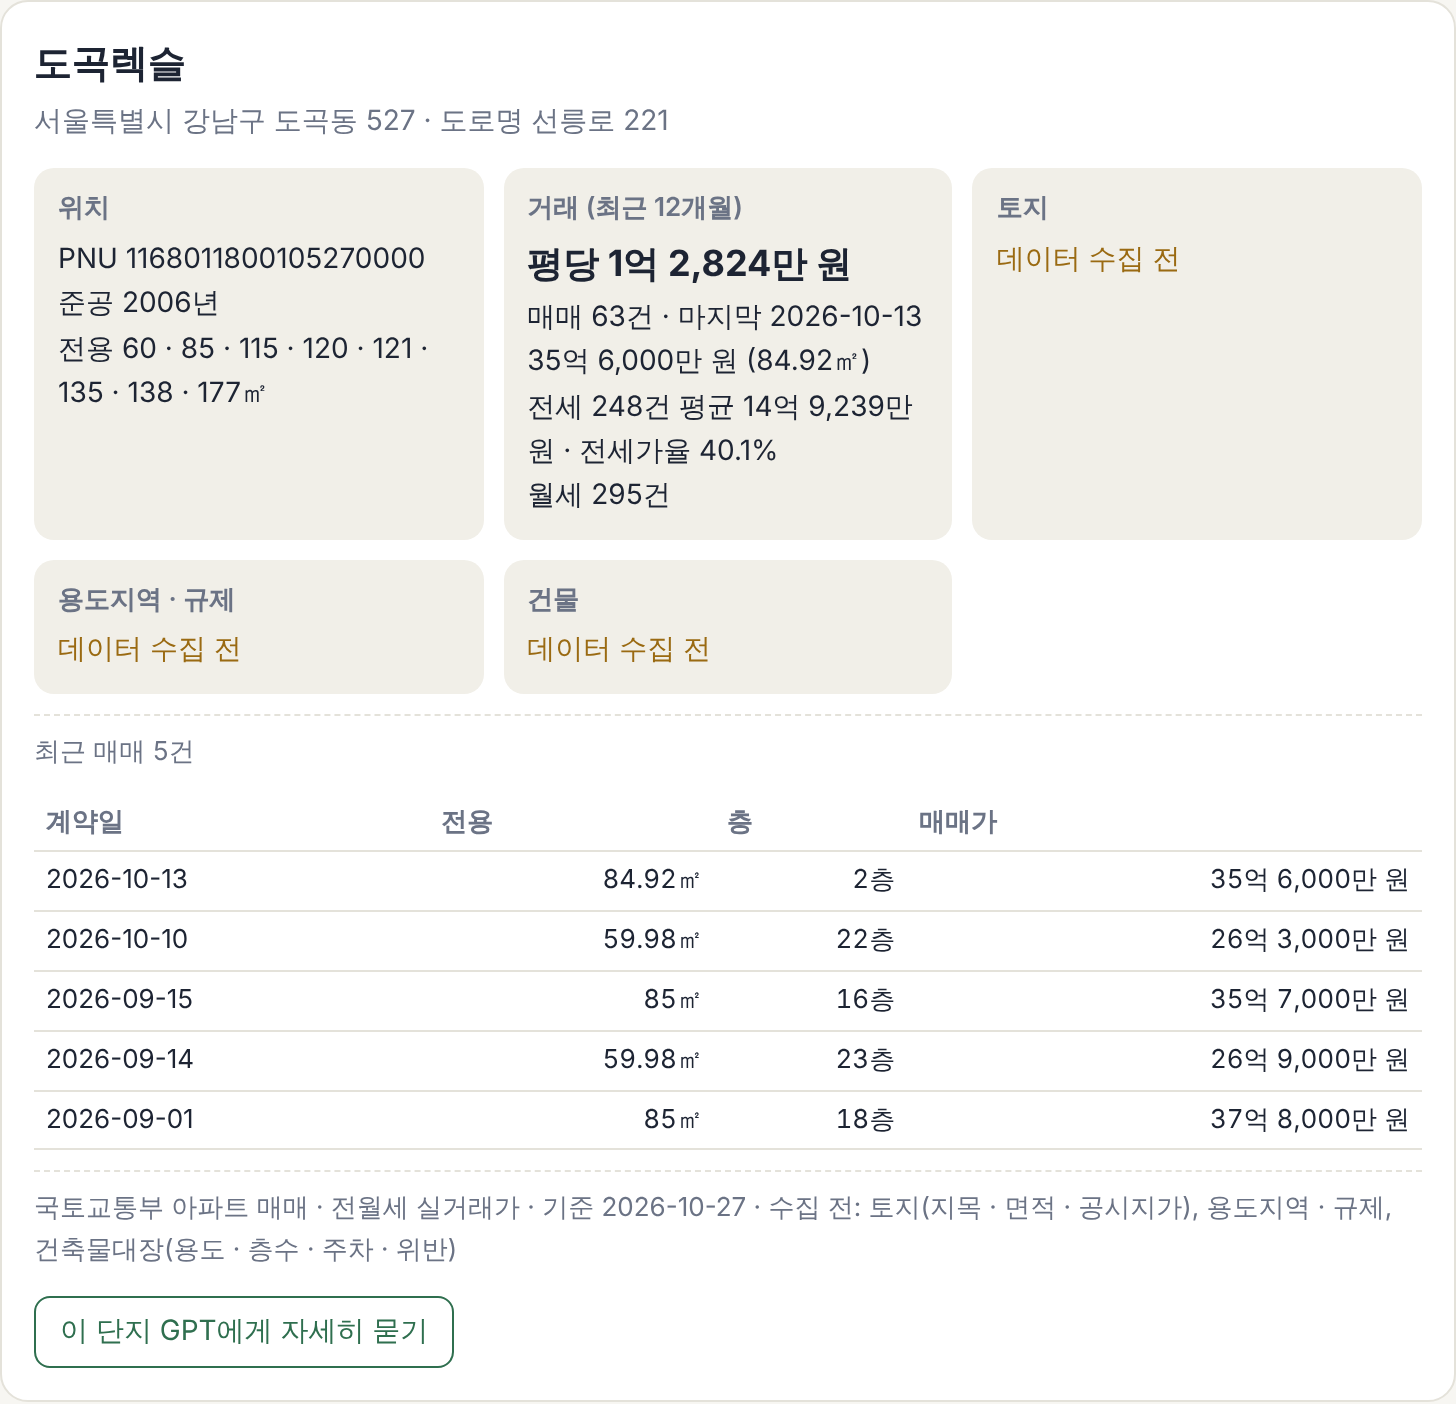
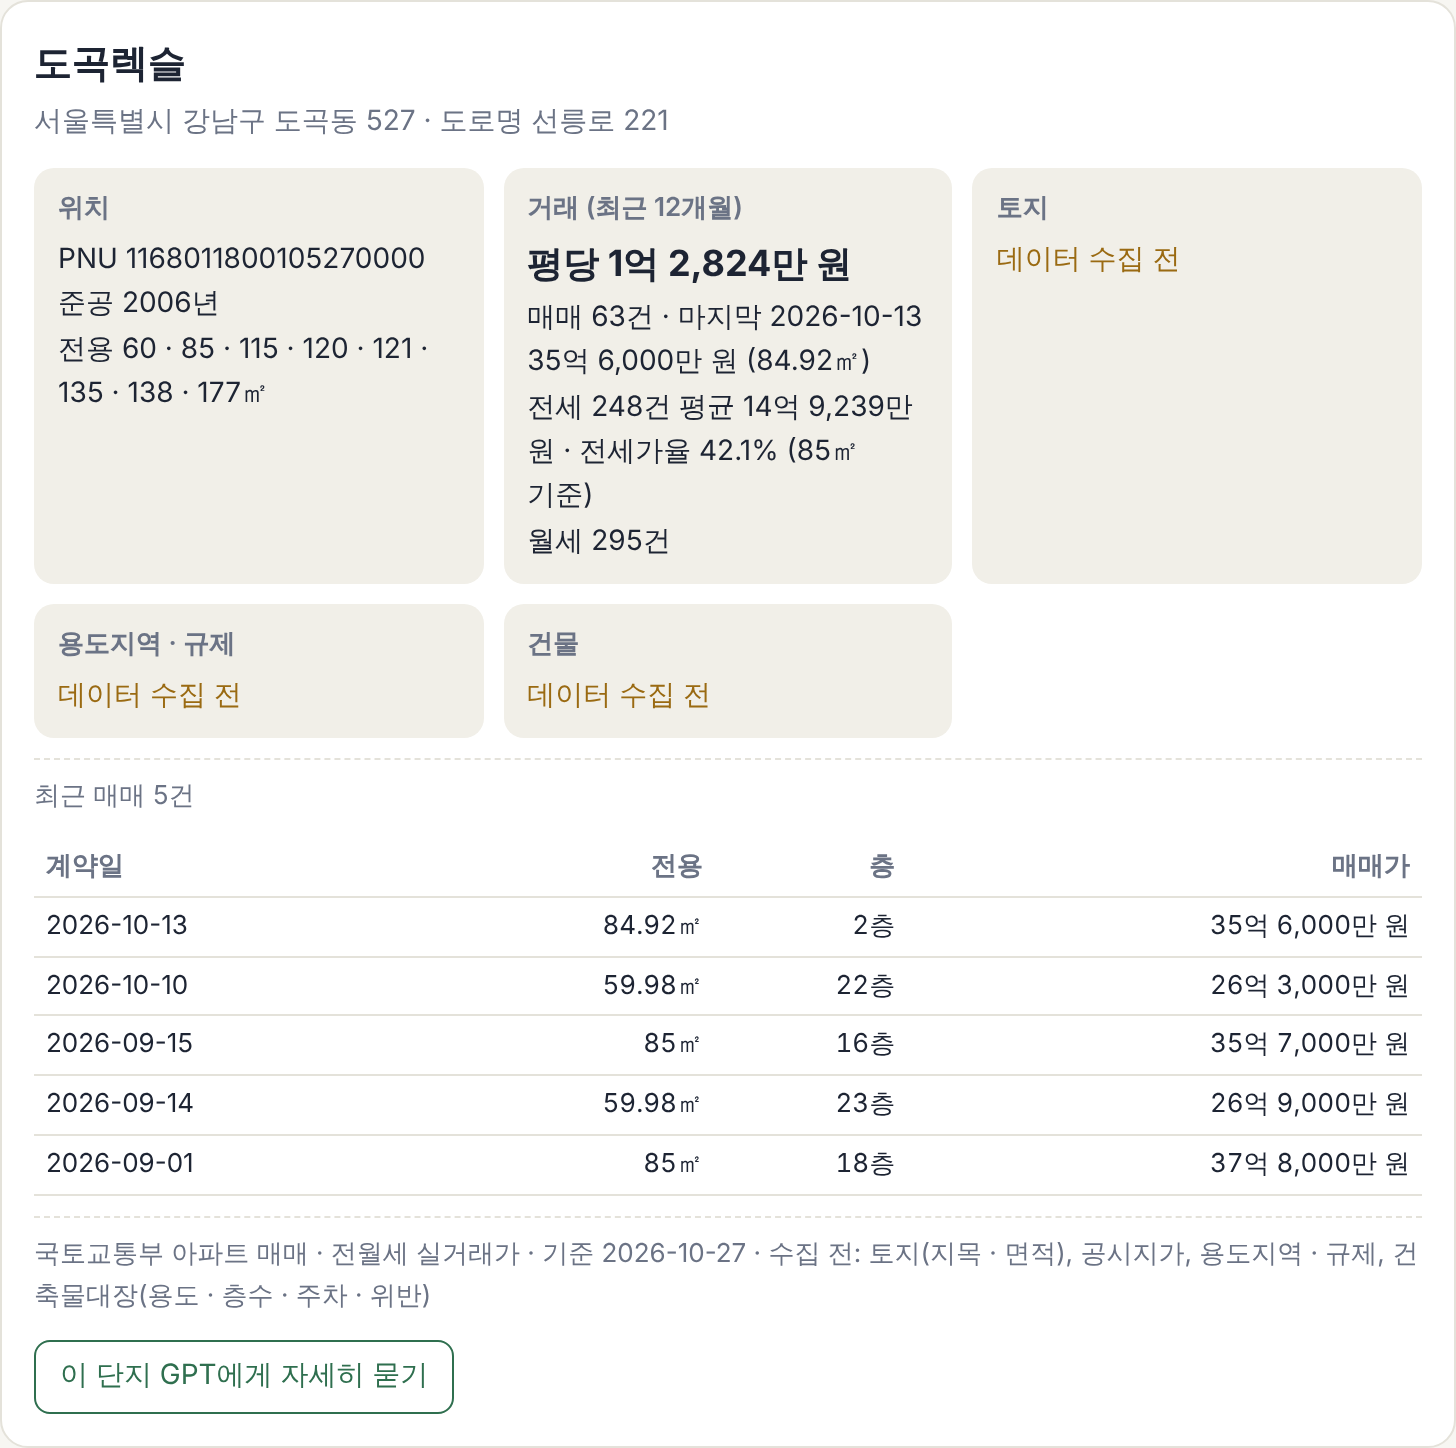
리뷰 반영: 단지 카드
- 전세가율은 같은 전용면적 타입끼리 비교(매매가 가장 많은 타입, jeonse_ratio_area)
- 토지 · 용도지역 · 건물은 단지 건물이 선 필지까지 모두 모음, 「접함」 용도지역 제외, 개별공시지가 우선
- 최근 매매 5건을 카드 함수 안에서 같이 읽어 같은 스냅숏 · 같은 단지만 보이게 함
- missing을 칸별(토지 · 공시지가 · 용도지역 · 건물)로, 기준일에 토지 · 건물 기준일도 반영
- 지번 공백 무시, 카드 오류 뒤 버튼 다시 켜기, DB 접속 5초 제한

Claude-Session: https://claude.ai/code/session_0128nbhyaPcHTYW7NnvzLmPe

diff --git a/hanpilji/gpt/web.py b/hanpilji/gpt/web.py
@@ -46,7 +46,7 @@ h1{font-size:22px;margin:0 0 4px}h2{font-size:17px;margin:28px 0 10px}.sub{color
 .pc{background:var(--card);border:1px solid var(--line);border-radius:14px;padding:16px;margin:12px 0}
 .pc h3{margin:0;font-size:19px}.pc .addr{color:var(--muted);font-size:14px;margin:2px 0 12px}
 .grid{display:grid;grid-template-columns:repeat(auto-fit,minmax(210px,1fr));gap:10px}
-.sec{background:var(--soft);border-radius:10px;padding:10px 12px;font-size:14px}
+.sec{background:var(--soft);border-radius:10px;padding:10px 12px;font-size:14px;word-break:keep-all;overflow-wrap:anywhere}
 .sec b{display:block;font-size:13px;color:var(--muted);font-weight:600;margin-bottom:4px}
 .sec .big{font-size:18px;font-weight:700}.todo{color:var(--warn)}
 table{width:100%;border-collapse:collapse;font-size:13px;margin-top:10px}td,th{padding:4px 6px;border-bottom:1px solid var(--line);text-align:left}
@@ -86,10 +86,10 @@ function card(r,deals){const c=el("div","pc");c.append(el("h3",null,r.complex_na
  g.append(sec("위치",[["PNU "+(r.pnu||"없음")],["준공 "+(r.build_year||"-")+"년"],["전용 "+(r.area_types||[]).join(" · ")+"㎡"]]));
  g.append(sec("거래 (최근 12개월)",[[r.trade_count?"평당 "+won(r.trade_per_pyeong):"매매 없음","big"],
   ["매매 "+r.trade_count+"건 · 마지막 "+(r.trade_last_date?r.trade_last_date+" "+won(r.trade_last_amount)+" ("+r.trade_last_area+"㎡)":"-")],
-  ["전세 "+r.jeonse_count+"건 평균 "+won(r.jeonse_avg)+(r.jeonse_ratio!=null?" · 전세가율 "+r.jeonse_ratio+"%":"")],["월세 "+r.wolse_count+"건"]]));
- g.append(sec("토지",[["지목 "+(r.land_category||"-")+" · 면적 "+(r.land_area_m2||"-")+"㎡"],["공시지가 "+(r.land_price_per_m2?won(r.land_price_per_m2)+"/㎡ ("+r.land_price_year+")":"-")]],!has("토지")));
+  ["전세 "+r.jeonse_count+"건 평균 "+won(r.jeonse_avg)+(r.jeonse_ratio!=null?" · 전세가율 "+r.jeonse_ratio+"% ("+r.jeonse_ratio_area+"㎡ 기준)":"")],["월세 "+r.wolse_count+"건"]]));
+ g.append(sec("토지",[["필지 "+(r.land_parcel_count||0)+"개 · 지목 "+(r.land_category||"-")+" · 면적 "+(r.land_area_m2||"-")+"㎡"],["공시지가 "+(r.land_price_per_m2?won(r.land_price_per_m2)+"/㎡ ("+r.land_price_year+")":"-")]],!has("토지")));
  g.append(sec("용도지역 · 규제",[[r.zones||"-"],["행위제한 규칙 "+(r.zone_rule_count||0)+"개"]],!has("용도지역")));
- g.append(sec("건물",[[(r.bld_main_use||"-")+" · 지상 "+(r.bld_floors_above||"-")+"층"],["사용승인 "+(r.bld_approval_date||"-")+" · 주차 "+(r.bld_parking??"-")+"대"],
+ g.append(sec("건물",[["건물 "+(r.bld_count||0)+"동 · "+(r.bld_main_use||"-")+" · 최고 "+(r.bld_floors_above||"-")+"층"],["사용승인 "+(r.bld_approval_date||"-")+" · 주차 "+(r.bld_parking??"-")+"대"],
   ["승강기 "+(r.bld_elevator==null?"-":r.bld_elevator?"있음":"없음")+" · 위반 "+(r.bld_violation==null?"-":r.bld_violation?"있음":"없음")]],!has("건축물대장")));
  c.append(g);
  if(deals&&deals.length){const t=el("table");const h=el("tr");["계약일","전용","층","매매가"].forEach((x,i)=>h.append(el("th",i?"n":null,x)));t.append(h);
@@ -99,10 +99,10 @@ function card(r,deals){const c=el("div","pc");c.append(el("h3",null,r.complex_na
  const a=el("button","ask","이 단지 GPT에게 자세히 묻기");a.type="button";a.onclick=()=>{q.value=r.complex_name+" 종합해서 알려줘";send()};c.append(a);return c}
 async function look(){const t=$("cq").value.trim();if(!t)return;const box=$("cards");box.textContent="찾는 중…";$("cb").disabled=true;
  try{const r=await fetch("/api/card?q="+encodeURIComponent(t),{headers:{"X-Token":token}});const j=await r.json();box.textContent="";
-  if(!r.ok){box.append(el("div","msg",j.error));return}
+  if(!r.ok){box.append(el("div","msg",j.error))}else{
   if(!j.rows.length){box.append(el("div","msg","「"+t+"」에 맞는 단지가 없습니다. 지금 데이터는 서울 강남구 아파트만 있습니다."))}
-  for(const row of j.rows){row.sources=j.sources.join(" · ");row.asof=j.asof;box.append(card(row,j.deals[row.complex_name]))}
-  if(j.row_total>j.rows.length)box.append(el("div","src","전체 "+j.row_total+"곳 중 "+j.rows.length+"곳. 이름을 더 자세히 써 주세요."))}
+  for(const row of j.rows){row.sources=j.sources.join(" · ");row.asof=j.asof;box.append(card(row,row.recent_deals))}
+  if(j.row_total>j.rows.length)box.append(el("div","src","전체 "+j.row_total+"곳 중 "+j.rows.length+"곳. 이름을 더 자세히 써 주세요."))}}
  catch(e){box.textContent="연결 오류: "+e}$("cb").disabled=false}
 $("cb").onclick=look;$("cq").onkeydown=e=>{if(e.key==="Enter")look()};
 async function send(){const t=q.value.trim();if(!t)return;q.value="";add(t,"me");b.disabled=true;const w=add("찾는 중…");
@@ -157,16 +157,12 @@ def make_handler(cfg, model, rounds, token=None, per_hour=PER_HOUR):
                 self._json(404, {"error": "없는 주소"})
 
         def _card(self, query):
-            """단지 카드(LLM 없이 마트 함수만 부름, 요금 없음) + 단지마다 최근 매매 몇 건."""
+            """단지 카드(LLM 없이 마트 함수 하나만 부름, 요금 없음). 최근 매매 5건도 같은 결과에 들어 있음."""
             if not query:
                 return self._json(400, {"error": "단지명이나 주소를 넣어 주세요"})
             try:
                 with engine.connect(cfg) as conn:
                     out = tools.run(conn, "q_property_card", {"query": query})
-                    out["deals"] = {}
-                    for r in out["rows"]:   # 이름 일부 검색이라 다른 단지가 섞일 수 있어 같은 이름만 남김
-                        rows = tools.run(conn, "q_deal_list", {"name": r["complex_name"]})["rows"]
-                        out["deals"][r["complex_name"]] = [d for d in rows if d["complex_name"] == r["complex_name"]][:5]
             except Exception as e:
                 print(f"오류: {e!r}", file=sys.stderr)
                 return self._json(500, {"error": "카드를 만드는 중 오류가 났습니다."})

diff --git a/tests/test_gpt.py b/tests/test_gpt.py
@@ -267,10 +267,36 @@ class WithDb(unittest.TestCase):
             self.assertTrue(row["pnu"].startswith("11680111001"), "세곡동 법정동 코드 + 일반 지번")
             self.assertGreater(row["trade_count"], 0)
             self.assertIn("건축물대장(용도 · 층수 · 주차 · 위반)", row["missing"])
+            self.assertLessEqual(len(row["recent_deals"]), 5)
+            self.assertTrue(row["recent_deals"], "최근 매매가 카드에 같이 들어 있음")
             json.dumps(card, ensure_ascii=False)   # 배열(전용면적 타입)도 JSON으로 바뀜
             by_addr = tools.run(conn, "q_property_card", {"query": row["address"].split(" ", 2)[2] + "번지"})
             self.assertEqual(by_addr["rows"][0]["complex_name"], row["complex_name"], "동 지번으로도 찾음")
             self.assertEqual(tools.run(conn, "q_property_card", {"query": "없는단지"})["row_total"], 0)
+
+    def test_property_card_joins_all_parcels(self):
+        """단지 건물이 선 필지까지 모으고, 「접함」 용도지역은 빼고, 개별공시지가를 먼저 씀(넣은 값은 되돌림)."""
+        with psycopg.connect(DSN) as conn:
+            cid, pnu = conn.execute("SELECT complex_id, pnu FROM core.dim_complex WHERE pnu IS NOT NULL LIMIT 1").fetchone()
+            other = pnu[:11] + "9999" + pnu[15:]
+            conn.execute("INSERT INTO core.dim_parcel (pnu, land_category, area_m2, source, asof) VALUES "
+                         "(%s, '대', 1000, 't', '2026-10-01'), (%s, '대', 500, 't', '2026-10-01')", (pnu, other))
+            conn.execute("INSERT INTO core.fact_land_price (pnu, base_year, is_standard, price_per_m2, source, asof) "
+                         "VALUES (%s, 2026, false, 300, 't', '2026-10-01'), (%s, 2026, true, 290, 't', '2026-10-01')",
+                         (pnu, pnu))
+            conn.execute("INSERT INTO core.bridge_parcel_zone (pnu, zone_cd, overlap, source, asof) VALUES "
+                         "(%s, 'UQA123', '포함', 't', '2026-10-01'), (%s, 'UQA130', '접함', 't', '2026-10-01')",
+                         (pnu, other))
+            conn.execute("INSERT INTO core.dim_building (bld_pk, pnu, main_use, floors_above, total_area, source, asof) "
+                         "VALUES ('t1', %s, '공동주택', 35, 2, 't', '2026-10-01'), "
+                         "('t2', %s, '공동주택', 30, 1, 't', '2026-10-01')", (pnu, other))
+            conn.execute("INSERT INTO core.bridge_complex_building (complex_id, bld_pk, source, asof) "
+                         "VALUES (%s, 't2', 't', '2026-10-01')", (cid,))
+            row = conn.execute("SELECT land_parcel_count, land_area_m2, land_price_per_m2, zones, bld_count, missing "
+                               "FROM mart.q_property_card('11680', (SELECT name FROM core.dim_complex "
+                               "WHERE complex_id = %s))", (cid,)).fetchone()
+            conn.rollback()
+        self.assertEqual(row, (2, 1500, 300, "제3종일반주거지역", 2, []))
 
     def test_make_pnu(self):
         with engine.connect(self.cfg) as conn:
@@ -337,14 +363,14 @@ class Web(unittest.TestCase):
     def test_card(self):
         self.serve()
         import urllib.request
-        card = {"tool": "q_property_card", "rows": [{"complex_name": "도곡렉슬"}], "sources": [], "asof": None,
-                "shown": 1, "row_total": 1}
-        deals = {"rows": [{"complex_name": "도곡렉슬", "amount": 1}, {"complex_name": "도곡렉슬2", "amount": 2}]}
-        with mock.patch.object(tools, "run", side_effect=[card, deals]) as run:
+        card = {"tool": "q_property_card", "rows": [{"complex_name": "도곡렉슬", "recent_deals": []}], "sources": [],
+                "asof": None, "shown": 1, "row_total": 1}
+        with mock.patch.object(tools, "run", return_value=card) as run:
             with urllib.request.urlopen(self.base + "/api/card?q=%EB%8F%84%EA%B3%A1") as r:
                 got = json.loads(r.read())
-        self.assertEqual(run.call_args_list[0].args[1:], ("q_property_card", {"query": "도곡"}))
-        self.assertEqual(got["deals"], {"도곡렉슬": [{"complex_name": "도곡렉슬", "amount": 1}]}, "다른 단지 거래는 뺌")
+        run.assert_called_once()   # 카드와 최근 거래를 한 함수(한 스냅숏)에서 읽음
+        self.assertEqual(run.call_args.args[1:], ("q_property_card", {"query": "도곡"}))
+        self.assertEqual(got["rows"], card["rows"])
 
     def test_token_and_rate_limit(self):
         self.serve(token="s3cret", per_hour=2)

diff --git a/hanpilji/gpt/tools.py b/hanpilji/gpt/tools.py
@@ -53,8 +53,10 @@ TOOLS = [
         "name": "q_property_card",
         "description": (
             "단지명 또는 「동 지번」(예: 도곡동 527) 하나로 그 단지의 종합 카드. 위치(주소 · 도로명 · PNU · 준공연도), "
-            "전용면적 타입, 최근 거래 요약(매매 건수 · 평당가 · 마지막 거래, 전세 건수 · 평균 · 전세가율, 월세 건수), "
-            "토지(지목 · 면적 · 공시지가) · 용도지역 · 규제 규칙 수 · 건축물대장(용도 · 층수 · 주차 · 위반)을 한 줄로 줌. "
+            "전용면적 타입, 최근 거래 요약(매매 건수 · 평당가 · 마지막 거래 · 최근 매매 5건, 전세 건수 · 평균, 월세 건수), "
+            "전세가율(jeonse_ratio_area ㎡ 타입 하나에서 같은 면적끼리 비교한 값), "
+            "단지에 걸린 필지 전부의 토지(지목 · 면적) · 공시지가 · 용도지역 · 규제 규칙 수, 단지 건물 전부의 건축물대장"
+            "(동 수 · 용도 · 층수 · 주차 · 위반)을 한 줄로 줌. "
             "missing에 아직 수집 전이라 비어 있는 칸이 적혀 있으니 그 칸은 「데이터 수집 전」이라고 말할 것. "
             "「○○ 알려줘」 「이 주소 어때」처럼 한 곳을 종합해서 물을 때 먼저 부름. 같은 이름이 여럿이면 최대 5줄. 강남구(11680)만."),
         "input_schema": {

diff --git a/hanpilji/gpt/engine.py b/hanpilji/gpt/engine.py
@@ -134,6 +134,6 @@ def connect(cfg):
     """GPT용 읽기 전용 접속. HANPILJI_GPT_DSN(hanpilji_gpt 계정)을 권장, 없으면 HANPILJI_DSN."""
     import psycopg
     dsn = os.environ.get("HANPILJI_GPT_DSN") or cfg["db"]["dsn"]
-    conn = psycopg.connect(dsn, autocommit=True,
+    conn = psycopg.connect(dsn, autocommit=True, connect_timeout=5,
                            options="-c default_transaction_read_only=on -c statement_timeout=5000")
     return conn
